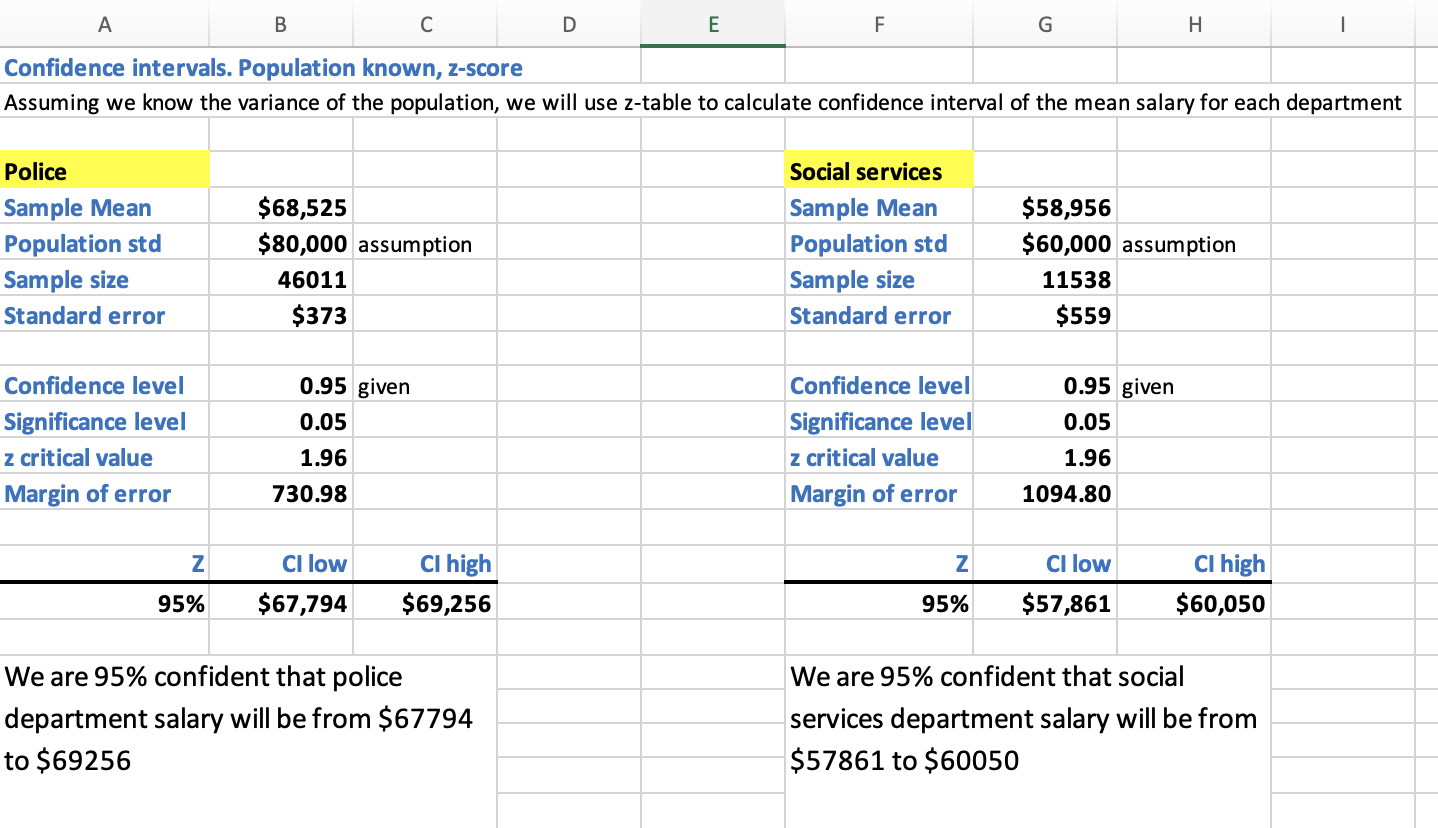
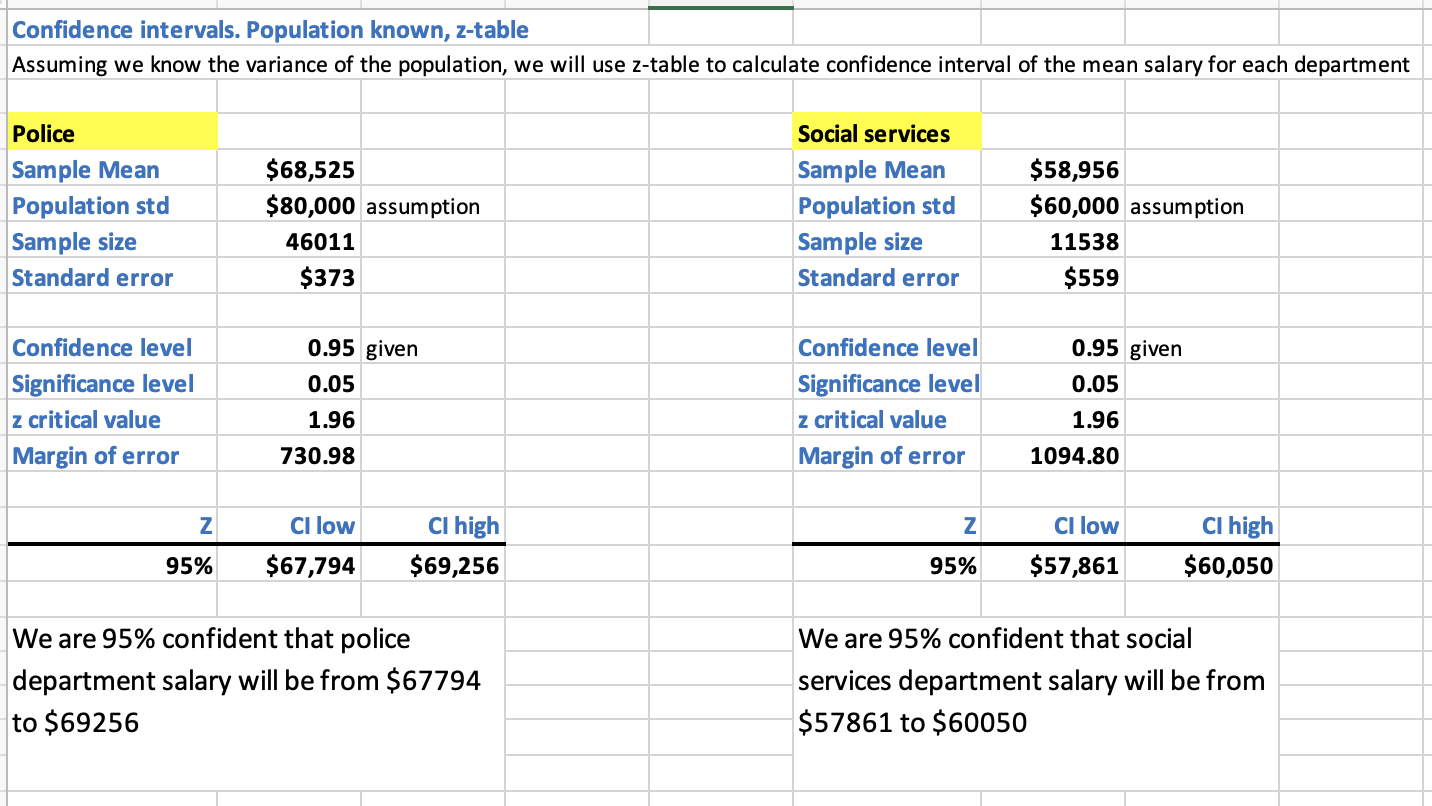
added episode 12

Changed region(s): [[0.0, 0.0, 1.0, 1.0], [0.0, 0.9615, 0.0307, 0.9926]]

diff --git a/_posts/2024-04-25-episode12.md b/_posts/2024-04-25-episode12.md
@@ -48,10 +48,10 @@ Refer to sheet **"1. Known variance, CI, z-table"** in inferential_stats_case_st
 
 <figure>
   <img src="{{site.baseurl}}/assets/episode_12_image_5.png">  
-  <figcaption>Case 1: Confidence intervals. Population known, z-score</a></figcaption>
+  <figcaption>Case 1: Confidence intervals. Population known, z-table. </figcaption>
 </figure>  
 
-Interpretation: We are 95% confident that an police officer's salary will be from $67,794 to $69,256 and a social worker's salary will be from $57,861 to $60,050 in NYC in 2020.  
+<p style="color:blue"> **Interpretation:** We are 95% confident that a police officer's salary will be from $67,794 to $69,256 and a social worker's salary will be from $57,861 to $60,050 in NYC in 2020.</p>
 
 + <span style="color:blue">Step 2(b): If we do not know the population variance for the salary of each department, calculate the confidence interval for the mean salary of a police officer and a social worker in New York for the year 2020.</span>
 
@@ -60,10 +60,10 @@ Refer to sheet **"2. Unkown var, CI, t-table"** in inferential_stats_case_study.
 
 <figure>
   <img src="{{site.baseurl}}/assets/episode_12_image_6.png">  
-  <figcaption>Case 1: Confidence intervals. Population known, z-score</a></figcaption>
+  <figcaption>Case 2: Confidence intervals. Population uknown, t-table</a></figcaption>
 </figure> 
 
-Interpretation: We are 95% confident that an police officer's salary will be from $68,219 to $68,830 and a social worker's salary will be from $58,511 to $59,400 in NYC in 2020.
+<p style="color:blue"> **Interpretation:** We are 95% confident that a police officer's salary will be from $68,219 to $68,830 and a social worker's salary will be from $58,511 to $59,400 in NYC in 2020.</p>
 
 + <span style="color:blue">What are some of the ways you can convert non-gaussian features to gaussian and why is it important?</span>  
   If we are estimating the probability distribution of the negative (non-anomalous) examples using a gaussian distribution that it is important to convert all the features to a gaussian distribution. 
